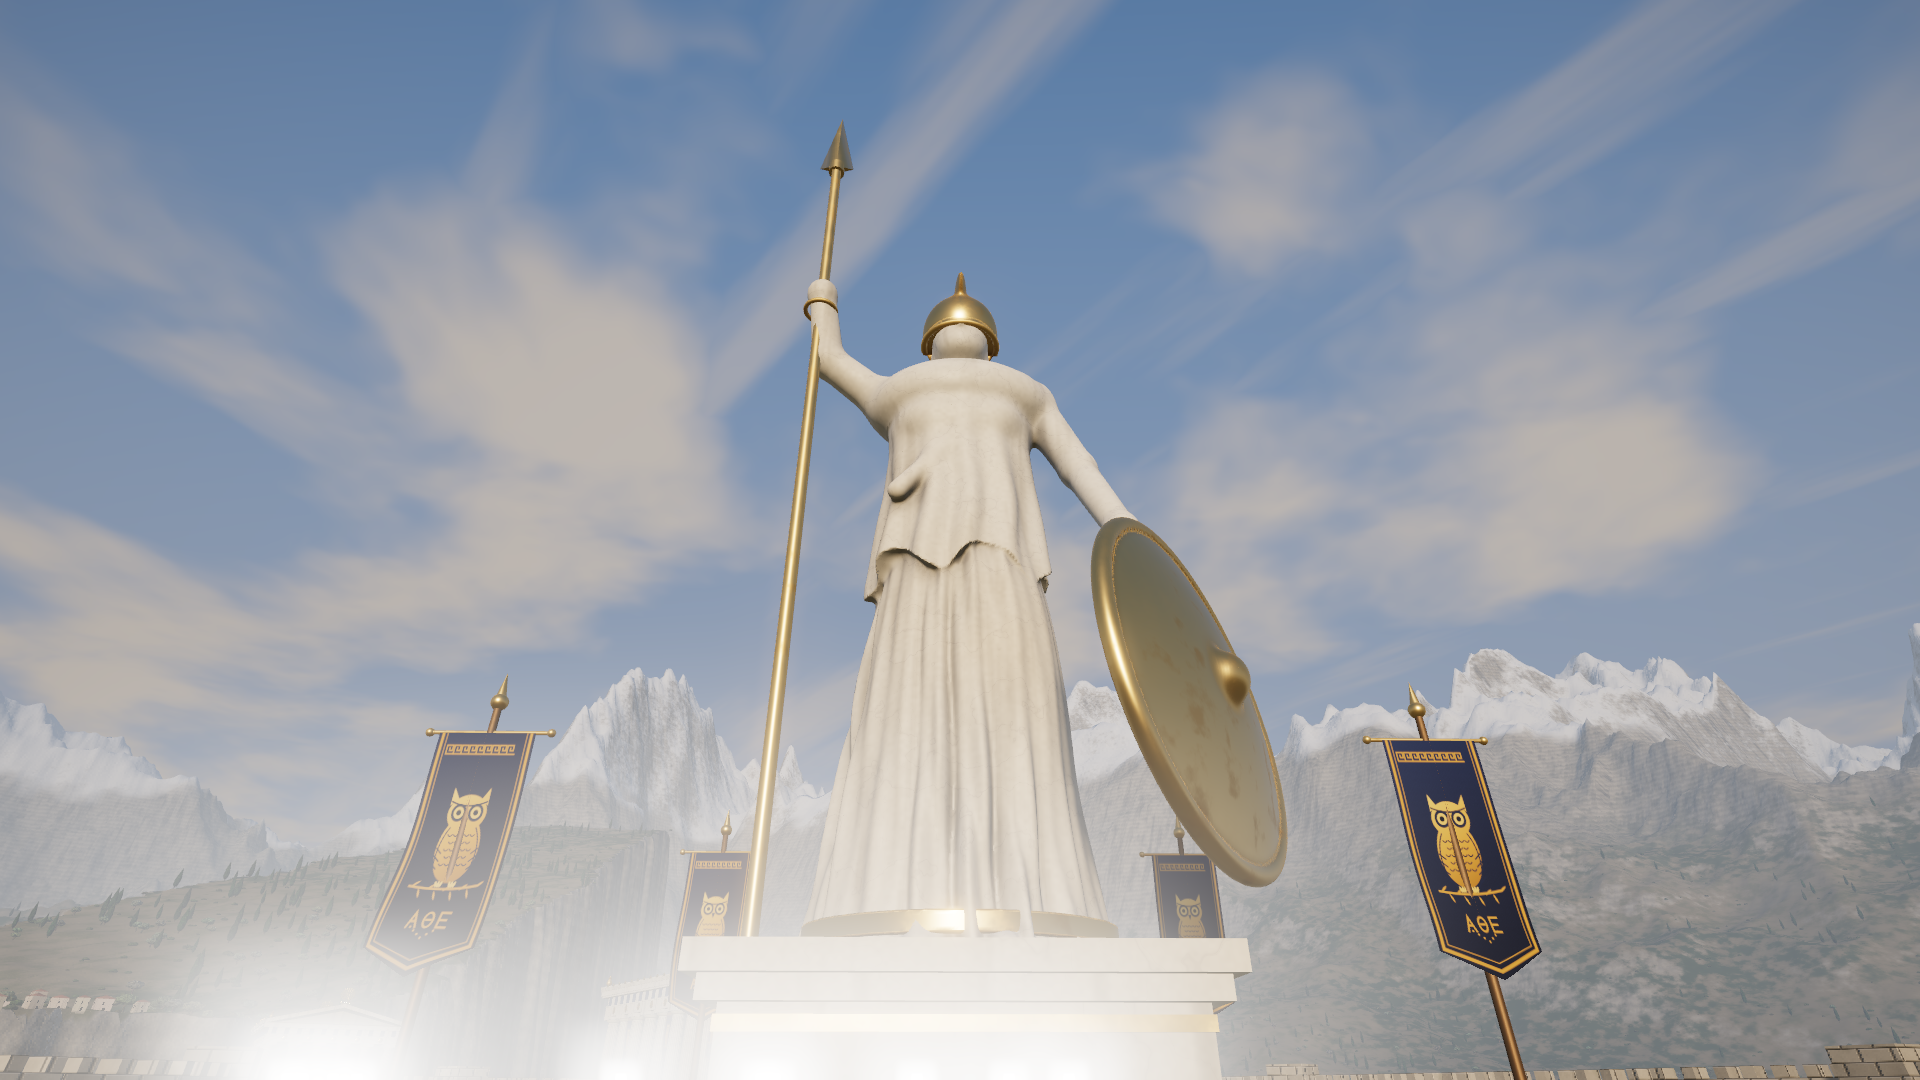
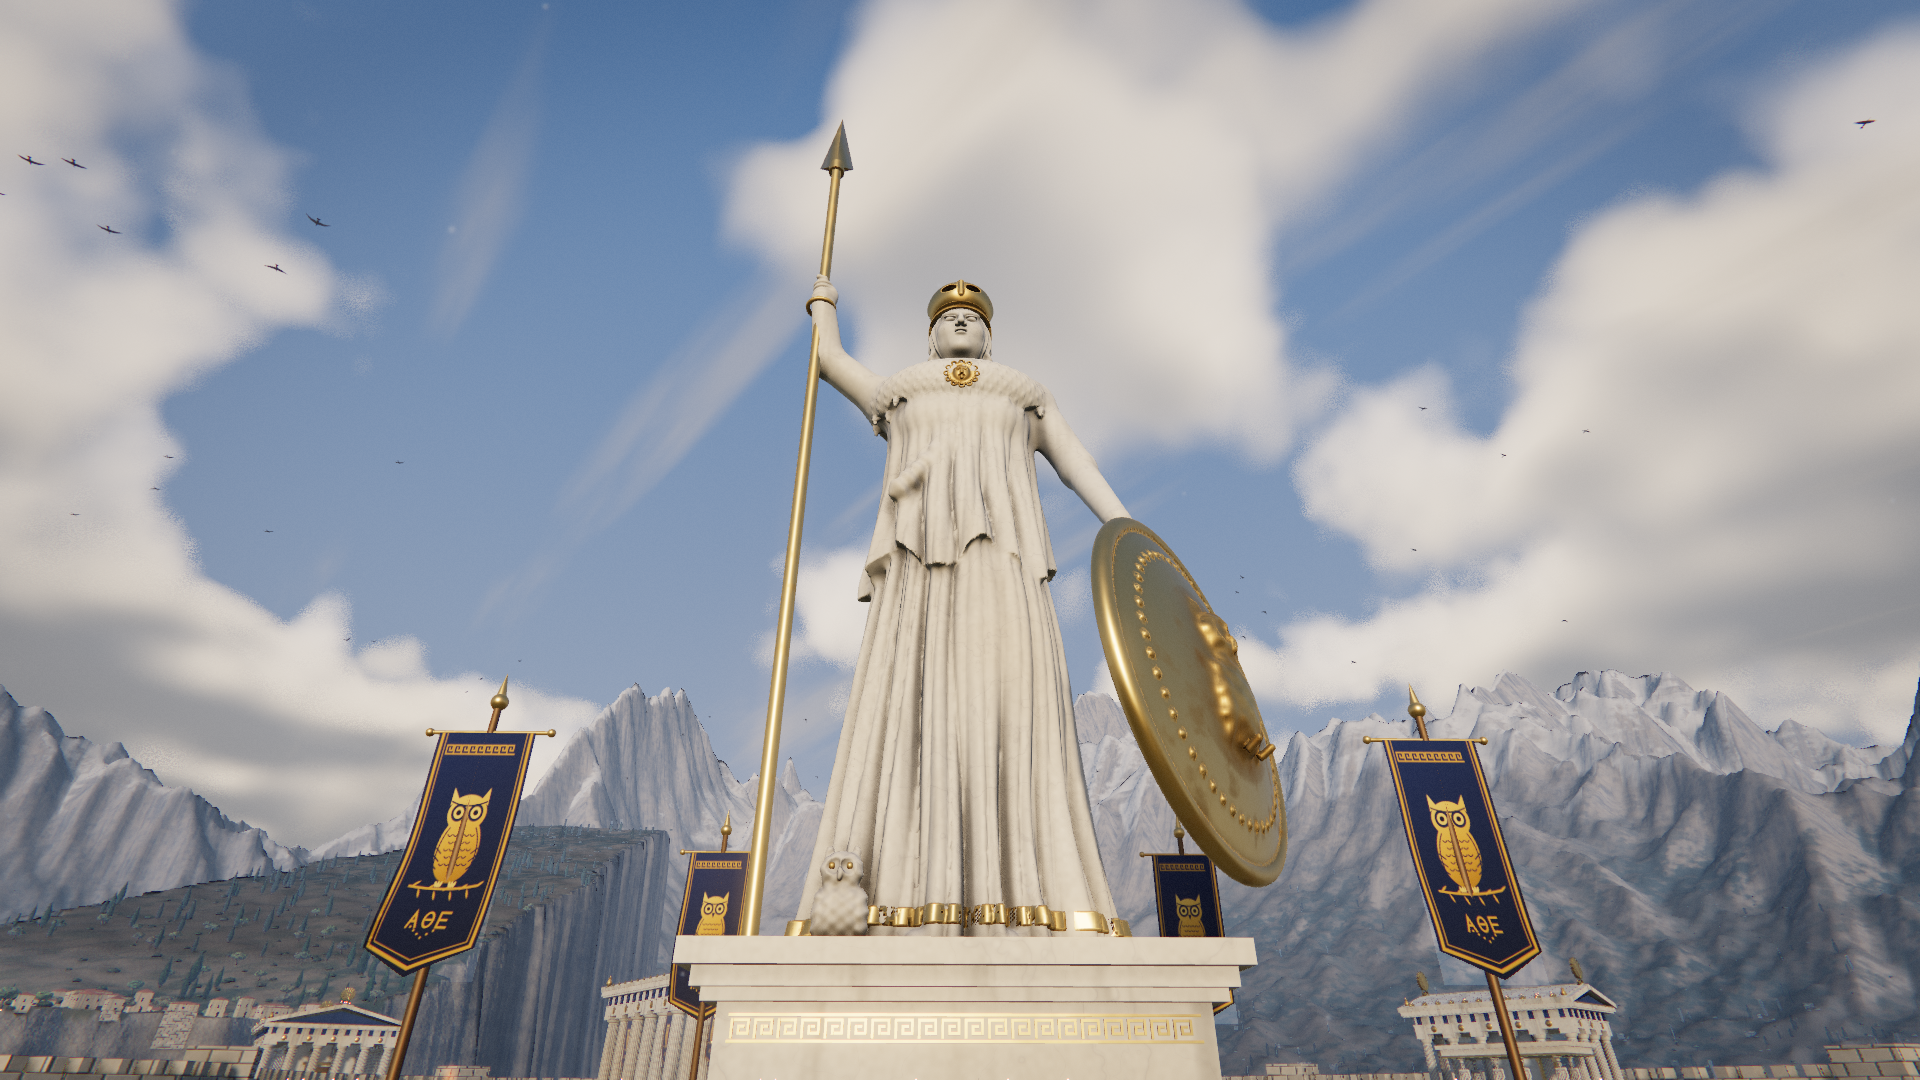
docs: README features, URL params, render options and roadmap; final 1080p renders (vista, hero, temple, statue, waterfall, theatre, agora, golden vista, aerial)

diff --git a/src/views.js b/src/views.js
@@ -8,5 +8,5 @@ export const VIEWS = {
   sunrays: { pos: [-120, 8, 120], target: [120, 80, 160], fov: 55 },
   theatre: { pos: [-38, 48, 118], target: [14, 17, 182], fov: 55, abs: true },
   agora: { pos: [196, 26, -72], target: [278, 14, -158], fov: 55, abs: true },
-  aerial: { pos: [250, 700, 700], target: [-150, 40, 40], fov: 50 },
+  aerial: { pos: [430, 270, 560], target: [-40, 50, 30], fov: 50, abs: true },
 };

diff --git a/README.md b/README.md
@@ -10,7 +10,22 @@ npm run dev                # http://localhost:5173
 npm run build && npm run serve   # static server for dist/ on http://localhost:4173
 ```
 
-URL params: `?quality=low|high|ultra`, `?view=vista|hero|waterfall|statue|temple|aerial|stairs`, `?time=12` (freeze animation), `?exposure=0.62`, `?w=&h=` (fixed canvas size), `?gui=0` (hide lil-gui).
+Also open `/lab.html` for the statue lab (`?view=full|face|helmet|owl|pedestal|chest`).
+
+### URL params
+
+| Param | Values | Notes |
+| --- | --- | --- |
+| `quality` | `low`, `high` (default), `ultra` | erosion grid, cloud steps, SSAO, god rays, tree/house/flower counts, LOD distances, figure bake resolution. Ultra is heavy. |
+| `view` | `vista`, `hero`, `waterfall`, `statue`, `temple`, `stairs`, `sunrays`, `theatre`, `agora`, `aerial` | preset camera |
+| `tod` | `day` (default), `noon`, `golden` | sun position, light, fog and sky colours |
+| `tour` | `1` | looping spline flythrough of all views; click, Space or Esc hands control back |
+| `tourDuration`, `tourAt` | seconds | tour loop length (default 110) and start offset |
+| `clouds` | integer | raymarch steps for the cumulus layer (0 disables it) |
+| `time` | seconds | freeze animation at that time |
+| `exposure` | e.g. `0.62` | tone-mapping exposure |
+| `w`, `h` | pixels | fixed canvas size |
+| `gui` | `0` | hide lil-gui |
 
 ## Render stills
 
@@ -19,7 +34,17 @@ npm run build
 npm run render -- --quality=high --views=vista,hero,waterfall --w=1920 --h=1080
 ```
 
-Uses puppeteer-core with a local Chrome/Chromium (`CHROME_PATH` to override). SwiftShader by default; add `--gpu=true` to use the real GPU. Output goes to `renders/<view>-<quality>[-suffix].png`. Options: `--out`, `--suffix`, `--time`, `--port`.
+Uses puppeteer-core with a local Chrome/Chromium (`CHROME_PATH` to override). SwiftShader by default; add `--gpu=true` to use the real GPU. Output goes to `renders/[page-]<view>-<quality>[-suffix].png`. Options: `--out`, `--suffix`, `--time`, `--port`, `--page=lab.html`, `--params=tod=golden&clouds=24` (extra URL params). A view of `tour@<seconds>` poses the camera on the flythrough. Only the final stills (`renders/vista.png`, `hero`, `temple`, `statue`, `waterfall`, `theatre`, `agora`, `vista-golden`, `aerial`) are tracked; everything else in `renders/` is gitignored.
+
+## Features
+
+- **Statue**: Athena Parthenos baked from SDFs with high-res detail boxes (face, Corinthian helmet, gorgoneion aegis with snakes, owls, gold hems) and an inscribed, meander-banded pedestal. Caryatids and korai reuse the SDF figure kit.
+- **City**: Parthenon with navy-painted tympana, marble pediment figures with a gilt centre, owl banners and long drapes; Propylaea, Nike temple, Zeus temple, Erechtheion with a six-caryatid porch; a theatre carved into the hillside (tiered cavea, aisles, orchestra, skene); an agora with two stoas, an altar and six labelled statues on plinths; bronze braziers with flickering soft-particle flames and ground glow; a dense terraced town of block, L and courtyard houses on ashlar podia.
+- **Terrain**: fBm + ridged mountains with hydraulic droplet and thermal erosion, strata, gullies, scree, wind-blown sparkling snow, LOD-faded micro detail and underwater caustics.
+- **Vegetation**: clumped Italian cypress, gnarled split-trunk olives with silvery sheen, shrubs, grass and four kinds of wildflower drifts. All of it sways in travelling wind gusts. Trees use three LODs; the far one is a runtime-baked albedo and normal-map impostor.
+- **Water**: Water.js mirror lake with baked depth (shallow tint, transparency, animated shoreline foam), flow-mapped stream with bank foam, two waterfalls with plunge foam and lit soft-particle mist and spray (Henyey-Greenstein scattering, rainbow hint).
+- **Atmosphere**: raymarched cumulus with a cirrus layer, Rayleigh/Mie-style height fog, god rays, GTAO, bloom with HDR clamp, filmic grade, bird flocks, dust motes and time-of-day presets.
+- **Camera**: preset views and a `?tour=1` centripetal Catmull-Rom flythrough.
 
 ## Structure
 
@@ -33,14 +58,17 @@ src/
   gui.js         lil-gui panel (views, sun, exposure, quality)
   modules/
     utils/        rng (seeded mulberry32), noise (value/perlin, fBm, ridged), math
-    terrain/      heightfield (fBm + ridged mountains, acropolis plateau, mesa cliff, lake basin, terraced cliffs),
+    terrain/      heightfield (fBm + ridged mountains, acropolis, mesa, lake, theatre bowl, agora), erosion (hydraulic + thermal),
                   terrainMesh (non-uniform LOD grid), terrainMaterial (grass/dirt/rock/snow by height+slope, triplanar-ish fissures, bump)
     architecture/ column (fluted Doric, entasis, echinus, abacus), temple (stylobate, peristyle, entablature, triglyphs, pediment,
-                  roof, gold acroteria/shields), ornaments, walls (terrain-following circuit wall, stairway), banners, town, acropolis (assembly)
-    statues/      sdf primitives, athenaSdf (marble + gold fields), surfaceNets mesher, bakeSdf (gradient normals, cavity AO), athena
-    vegetation/   treeGeometry (cypress, olive, shrub, grass tuft), foliageMaterial, scatter (slope/height/noise density, clearings)
+                  roof, pediment sculpture), ornaments, walls, banners, town, theatre, stoa, agora, erechtheion, brazier, acropolis (assembly)
+    statues/      sdf primitives, figure + athenaSdf, caryatid (kore/caryatid kit), surfaceNets mesher, bakeSdf (+ detail boxes), pedestal, athena
+    vegetation/   treeGeometry (clumped cypress, gnarled olive, shrub, grass, wildflowers), foliageMaterial, wind (vertex sway),
+                  impostor (baked albedo+normal billboards), scatter (density rules, clearings, distance LOD)
     water/        lake (Water.js mirror with procedural normals, or cheap PBR fallback), stream, waterfall (scrolling foam), mist (instanced spray)
-    atmosphere/   sky (procedural dome + baked env map for IBL), lights (sun with shadows, hemisphere), fog (exponential height fog), post (bloom, grade, ACES output)
+    atmosphere/   sky (dome, raymarched clouds, env bake), lights, fog (height fog, aerial perspective), softParticles, birds, dust,
+                  post (scene+depth, GTAO, soft particles, god rays, clamp, bloom, grade)
+    tour.js       spline flythrough
     materials/    marble (veining, weathering, streaks, lichen, cavity dirt), gold, stone (ashlar), banner (waving cloth), owlEmblem (canvas), waterNormals, glsl helpers
 tools/
   serve.js   plain node static server
@@ -49,19 +77,19 @@ tools/
 
 ## Known limitations
 
-- Single heightfield mesh, no chunking or streaming; far mountains are low frequency and a bit uniform.
-- Statue is SDF-baked at moderate resolution. The face and drapery are stylized, and the spear is separate geometry.
-- Vegetation is low-poly instanced geometry with no billboards/impostors; cypresses read slightly smooth up close.
-- Mist is a soft particle cloud with no lighting, and it can bloom hot against bright sky.
-- SwiftShader renders take about 30 to 40 s per high-quality frame.
+- One heightfield mesh with no chunking. Erosion only runs inside a central grid.
+- Waterfall mist reads as a soft cotton-ball volume from far or high above.
+- Impostors bake a single side view, so they don't swing correctly from steep top-down angles. Shadows ignore wind sway.
+- Town houses are boxes with tile-coloured roofs, without proper ridged roof geometry. Roads aren't modelled.
+- The tour clamps height above terrain but doesn't avoid buildings or trees.
+- SwiftShader renders take about 30 to 60 s per high-quality 1080p frame plus about 45 s of scene build. Ultra is much slower.
 
 ## Roadmap (prioritized)
 
-1. Hydraulic/thermal erosion pass on the heightfield; carved river from waterfall to lake.
-2. Terrain chunking + LOD (CDLOD/quadtree) and GPU-side heightfield for a larger world.
-3. Statue detail: higher-res sparse SDF bake, sculpted face, deeper drapery, relief pedestal; more statues (kouroi, caryatids).
-4. City expansion: agora, stoa, theatre, roads, Erechtheion with Ionic columns, procedural weathering per building.
-5. Volumetric clouds and god rays; lit mist with depth-aware soft particles.
-6. Vegetation impostors, wind animation, and denser grass via GPU instancing.
-7. Offline path-traced mode via three-gpu-pathtracer for hero stills.
-8. Time-of-day and weather presets; cinematic camera paths and video capture.
+1. Terrain chunking + CDLOD and a GPU heightfield for a larger world; extend erosion to the whole map.
+2. Volumetric, raymarched mist for the plunge pool; wet-rock darkening.
+3. Ridged roof tiles, roads and per-building weathering; Ionic order for the Erechtheion.
+4. Multi-angle (octahedral) impostors; wind-aware shadow depth materials.
+5. Path-traced hero stills; video capture of the tour.
+6. Weather presets (storm, haze, night with lit braziers).
+
